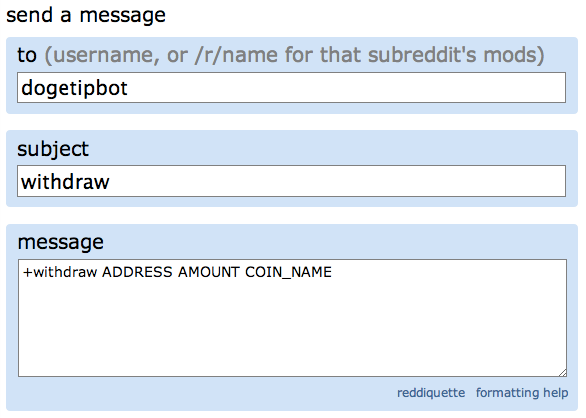
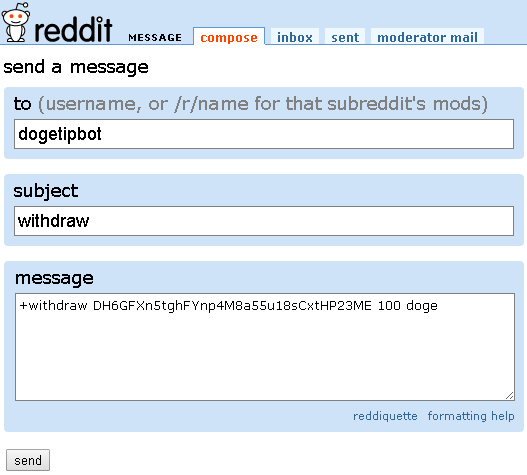
update reddit tipping section

diff --git a/tipping.html b/tipping.html
@@ -57,14 +57,13 @@
       <h1>Tipping - spread the Doge-ness</h1>
     </div>
     <div class="col-md-4 right update">
-      <code><strong>Last updated on Jan 23, 2014.</strong></code>
+      <code><strong>Last updated on Jan 25, 2014.</strong></code>
     </div>
   </div>
 
   <p>
-    Tipping is possible on Twitter and Reddit (and possibly other places, but this is what we have experience with). Tipping brings much joy and is an essential part of the community. It is also important because it introduces people to the wonders of Dogecoin and keeps doge in circulation.
+    Tipping is possible on Twitter and Reddit (and possibly other places, but this is what we have experience with). Tipping brings much joy and is an essential part of the community. It is also important because it introduces people to the wonders of Dogecoin and keeps Doge in circulation.
   </p>
-
 
   <ul class="nav nav-tabs" id="tipping">
     <li><a href="#reddit" data-toggle="tab">Reddit</a></li>
@@ -76,59 +75,70 @@
 
       <h2>Tipping with Reddit</h2>
 
+      <p>
+        Thanks to the <a href="http://www.reddit.com/r/dogetipbot" target="_blank">dogetipbot</a>, You can easily add tips to comments and replies. Their official guide is found <a href="http://www.reddit.com/r/dogetipbot/wiki/gettingstarted" target="_blank">here</a>.
+      </p>
+
       <h3>1. Register with the tip bot</h3>
+      <p>
+        There are two ways to register. One is if someone has already sent you a tip and the other is if you are self registering. If you have received a tip, the bot will message you asking if you want to accept. Reply to the message with <b>+accept</b> and dogetipbot will create your account. Skip to step two if you did this, otherwise continue on.
+      </p>
 
       <p>
-        To register with the dogetipbot, you can direct message the bot with <a href="http://www.reddit.com/message/compose?to=dogetipbot&subject=register&message=%2Bregister" target="_blank"><strong>+register</strong></a>. You should receive your confirmation almost instantly but during high volume periods of traffic, it may take longer. A further explanation of its recent slowness is found <a href="http://www.reddit.com/r/dogetipbot/comments/1vuaec/the_state_of_udogetipbot_hitting_the_reddit_api/" target="_blank">here</a>.
-      </p>
+        To register yourself, log into Reddit and send a direct message to the bot with <a href="http://www.reddit.com/message/compose?to=dogetipbot&subject=register&message=%2Bregister" target="_blank"><strong>+register</strong></a>. The bot will reply with a confirmation message, but during high volume periods of traffic it may take longer.
 
       <p class="alert alert-info">
-        Note: This step is not required if you have previously received a tip from a fellow shibe. The dogetipbot automatically creates a tip account for redditors who have received a tip but have not yet registered. Many smarts!
+        Note: The tip bot is currently slower than normal due to a massive increase in tip volume. You can read more about it <a href="http://www.reddit.com/r/dogetipbot/comments/1vuaec/the_state_of_udogetipbot_hitting_the_reddit_api/" target="_blank">here</a>. It is getting improved so be patient! The next version is right around the corner.
       </p>
+
       <img src="images/tipping/reddit-register.png" class="image-responsive" alt="register example" />
 
       <h3>2. Deposit to the balance</h3>
       <p>
-        Your registration confirmation will include your deposit address and current balance. If you want to deposit dogecoin into your tipbot account, just send doge to the provided address. If for any reason you forget your deposit address or tipbot balance, just message <a href="http://www.reddit.com/message/compose?to=dogetipbot&subject=info&message=%2Binfo" target="_blank"><strong>+info</strong></a> to the dogetipbot.
+        Your registration confirmation will include your deposit address and current balance. You must have something to tip with, so open your wallet and send Doge to the provided address. If for any reason you forget your deposit address or tipbot balance, just message <a href="http://www.reddit.com/message/compose?to=dogetipbot&subject=info&message=%2Binfo" target="_blank"><strong>+info</strong></a> to the dogetipbot.
       </p>
       <img src="images/tipping/reddit-setup.png" class="image-responsive" alt="dogetipbot direct message example" />
 
       <h3>3. Send tips in your comments / replies</h3>
 
       <p>
-        Once you have sent coins to your tip bot balance, you can tip fellow redditors by including something like "+/u/dogetipbot 100 doge - here's some doge!" in your comments and replies. If you want the tip bot to reply as well, make sure to include "verify", like "+/u/dogetipbot 100 doge verify". Check out the dogetip <a href="http://www.reddit.com/r/dogetipbot/wiki/gettingstarted" target="_blank">getting started guide</a> for further information.
+        Once you have a positive tip bot balance, you can tip fellow redditors by including <b>+/u/dogetipbot AMT_TO_SEND doge</b> somewhere in your comments or replies, where AMT_TO_SEND is the amount you want to send over. Comments will tip the original poster, while replies tip the person you are replying to. For example:
+      </p>
+      <img src="images/tipping/reddit-tip-example.png" alt="reddit tip example" />
+
+      <p>
+        If you want the tip bot to reply as well, make sure to include <b>verify</b> after "doge", like "+/u/dogetipbot 100 doge verify".
       </p>
       <img src="images/tipping/reddit-tip.jpg" alt="reddit tip example" />
 
       <p>
-        The receiver of the tip will get a confirmation message if the tip successfully went through.
+        Both you and the receiver of the tip will get a confirmation message if the tip successfully goes through. If you sent a tip, the confirmation message will include your current balance.
       </p>
       <img src="images/tipping/reddit-received-tip.png" alt="reddit tip received example" />
 
-      <h3>4. Withdraw tips you receive</h3>
+      <hr>
+
+      <h3>Withdraw from your balance</h3>
 
       <p>
-        To withdraw tips you have received from your balance, you can direct message the dogetipboth with <a href="http://www.reddit.com/message/compose?to=dogetipbot&subject=withdraw&message=%2Bwithdraw%20MYADDRESS%20100%20doge" target="_blank"><strong>+withdraw</a></strong>.
+        You can withdraw what you deposited / tips received if you have a positive balance. To get Doge back, send a direct message to dogetipbot with <a href="http://www.reddit.com/message/compose?to=dogetipbot&subject=withdraw&message=%2Bwithdraw%20MYADDRESS%20100%20doge" target="_blank"><strong>+withdraw YOUR_ADDRESS AMT_TO_TAKE_OUT doge</a></strong>. Example below.
       </p>
       <img src="images/tipping/reddit-withdraw.png" alt="reddit withdraw example" />
 
-      <hr>
-      <h3>View your tipbot recieve / withdraw history</h3>
+      <h3>View your tipbot account info and history</h3>
 
       <p>
-        If you want to view your transaction history, you can direct message the dogetipbot with <a href="http://www.reddit.com/message/compose?to=dogetipbot&subject=history&message=%2Bhistory" target="_blank"><strong>+history</strong></a> and receive a detailed report.
+        If you need to check your tipbot balance or forget your deposit address, you can message the dogetipbot directly with <a href="http://www.reddit.com/message/compose?to=dogetipbot&subject=info&message=%2Binfo" target="_blank"><strong>+info</strong></a> and it will send you an account summary. If you want to view your transaction history, you can direct message the dogetipbot with <a href="http://www.reddit.com/message/compose?to=dogetipbot&subject=history&message=%2Bhistory" target="_blank"><strong>+history</strong></a> and receive a detailed report.
+      </p>
+      <p>
+        There are also shortcuts to these actions in your tip sent / received confirmation messages.
       </p>
       <img src="images/tipping/reddit-tipbot-history.png" alt="reddit tipbot history example" />
-      <p>INSERT SECOND IMAGE</p>
-
-      <h3>Check your balance and send address</h3>
-
-      <p>
-        If you need to check your tipbot balance or forget your send address, you can direct message the dogetipbot with <a href="http://www.reddit.com/message/compose?to=dogetipbot&subject=info&message=%2Binfo" target="_blank"><strong>+info</strong></a> to receive a reply with both.
-      </p>
-      <img src="images/tipping/reddit-setup.png" alt="dogetipbot info example" />
 
     </div>
+
+
+
 
     <div class="tab-pane" id="twitter">
 
